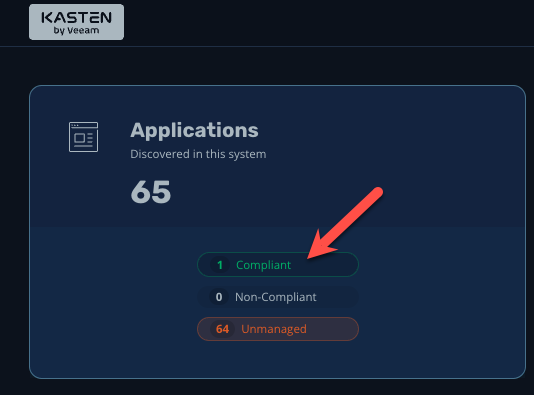
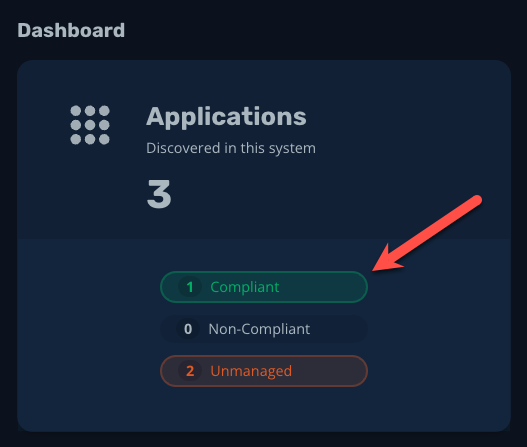
Updated screenshots to reflect lower app count due to implementing excludedApps in K10, added a note for workaround when minio server doesnt start

diff --git a/lab2_k10_configure/index.md b/lab2_k10_configure/index.md
@@ -86,6 +86,16 @@ nav_order: 2
 
 10. Click **Save Profile**
 
+    {: .note }
+    > Occassionally, the Minio server fails to start during the lab's provisioning. If this happens, you will see an error at this step stating **"There was a problem validating the profile"**:
+    > ![Problem Validating Profile](./assets/images/problem_validating_profile.png)
+    > If this occurs, you can manually start the server on the bastion host by connecting to it via SSH and running the following two commands:
+    > ```bash
+    > sudo su ec2-user
+    > /usr/local/bin/minio server /home/ec2-user/minio --console-address :9090 >/dev/null 2>&1 &
+    > ```
+    > After doing so, return to the Kasten UI and click **Save Profile** again and Kasten should be able to validate the location profile.
+
 11. Verify the ***STATUS*** of your Location Profile is ***Valid***.
 
     ![valid profile](./assets/images/valid-profile.png)

diff --git a/lab4_k10_blueprints/index.md b/lab4_k10_blueprints/index.md
@@ -180,7 +180,7 @@ and you should see the blueprint we just created automatically bound to the **pa
     ![Pacman Backup Completed](./assets/images/pacman-backup_completed.png)
 
 
-Part 2. Takeaways
+Part 4. Takeaways
 ====================
 
 - Kasten supports multiple backup types, including crash consistent, application consistent, and logical
